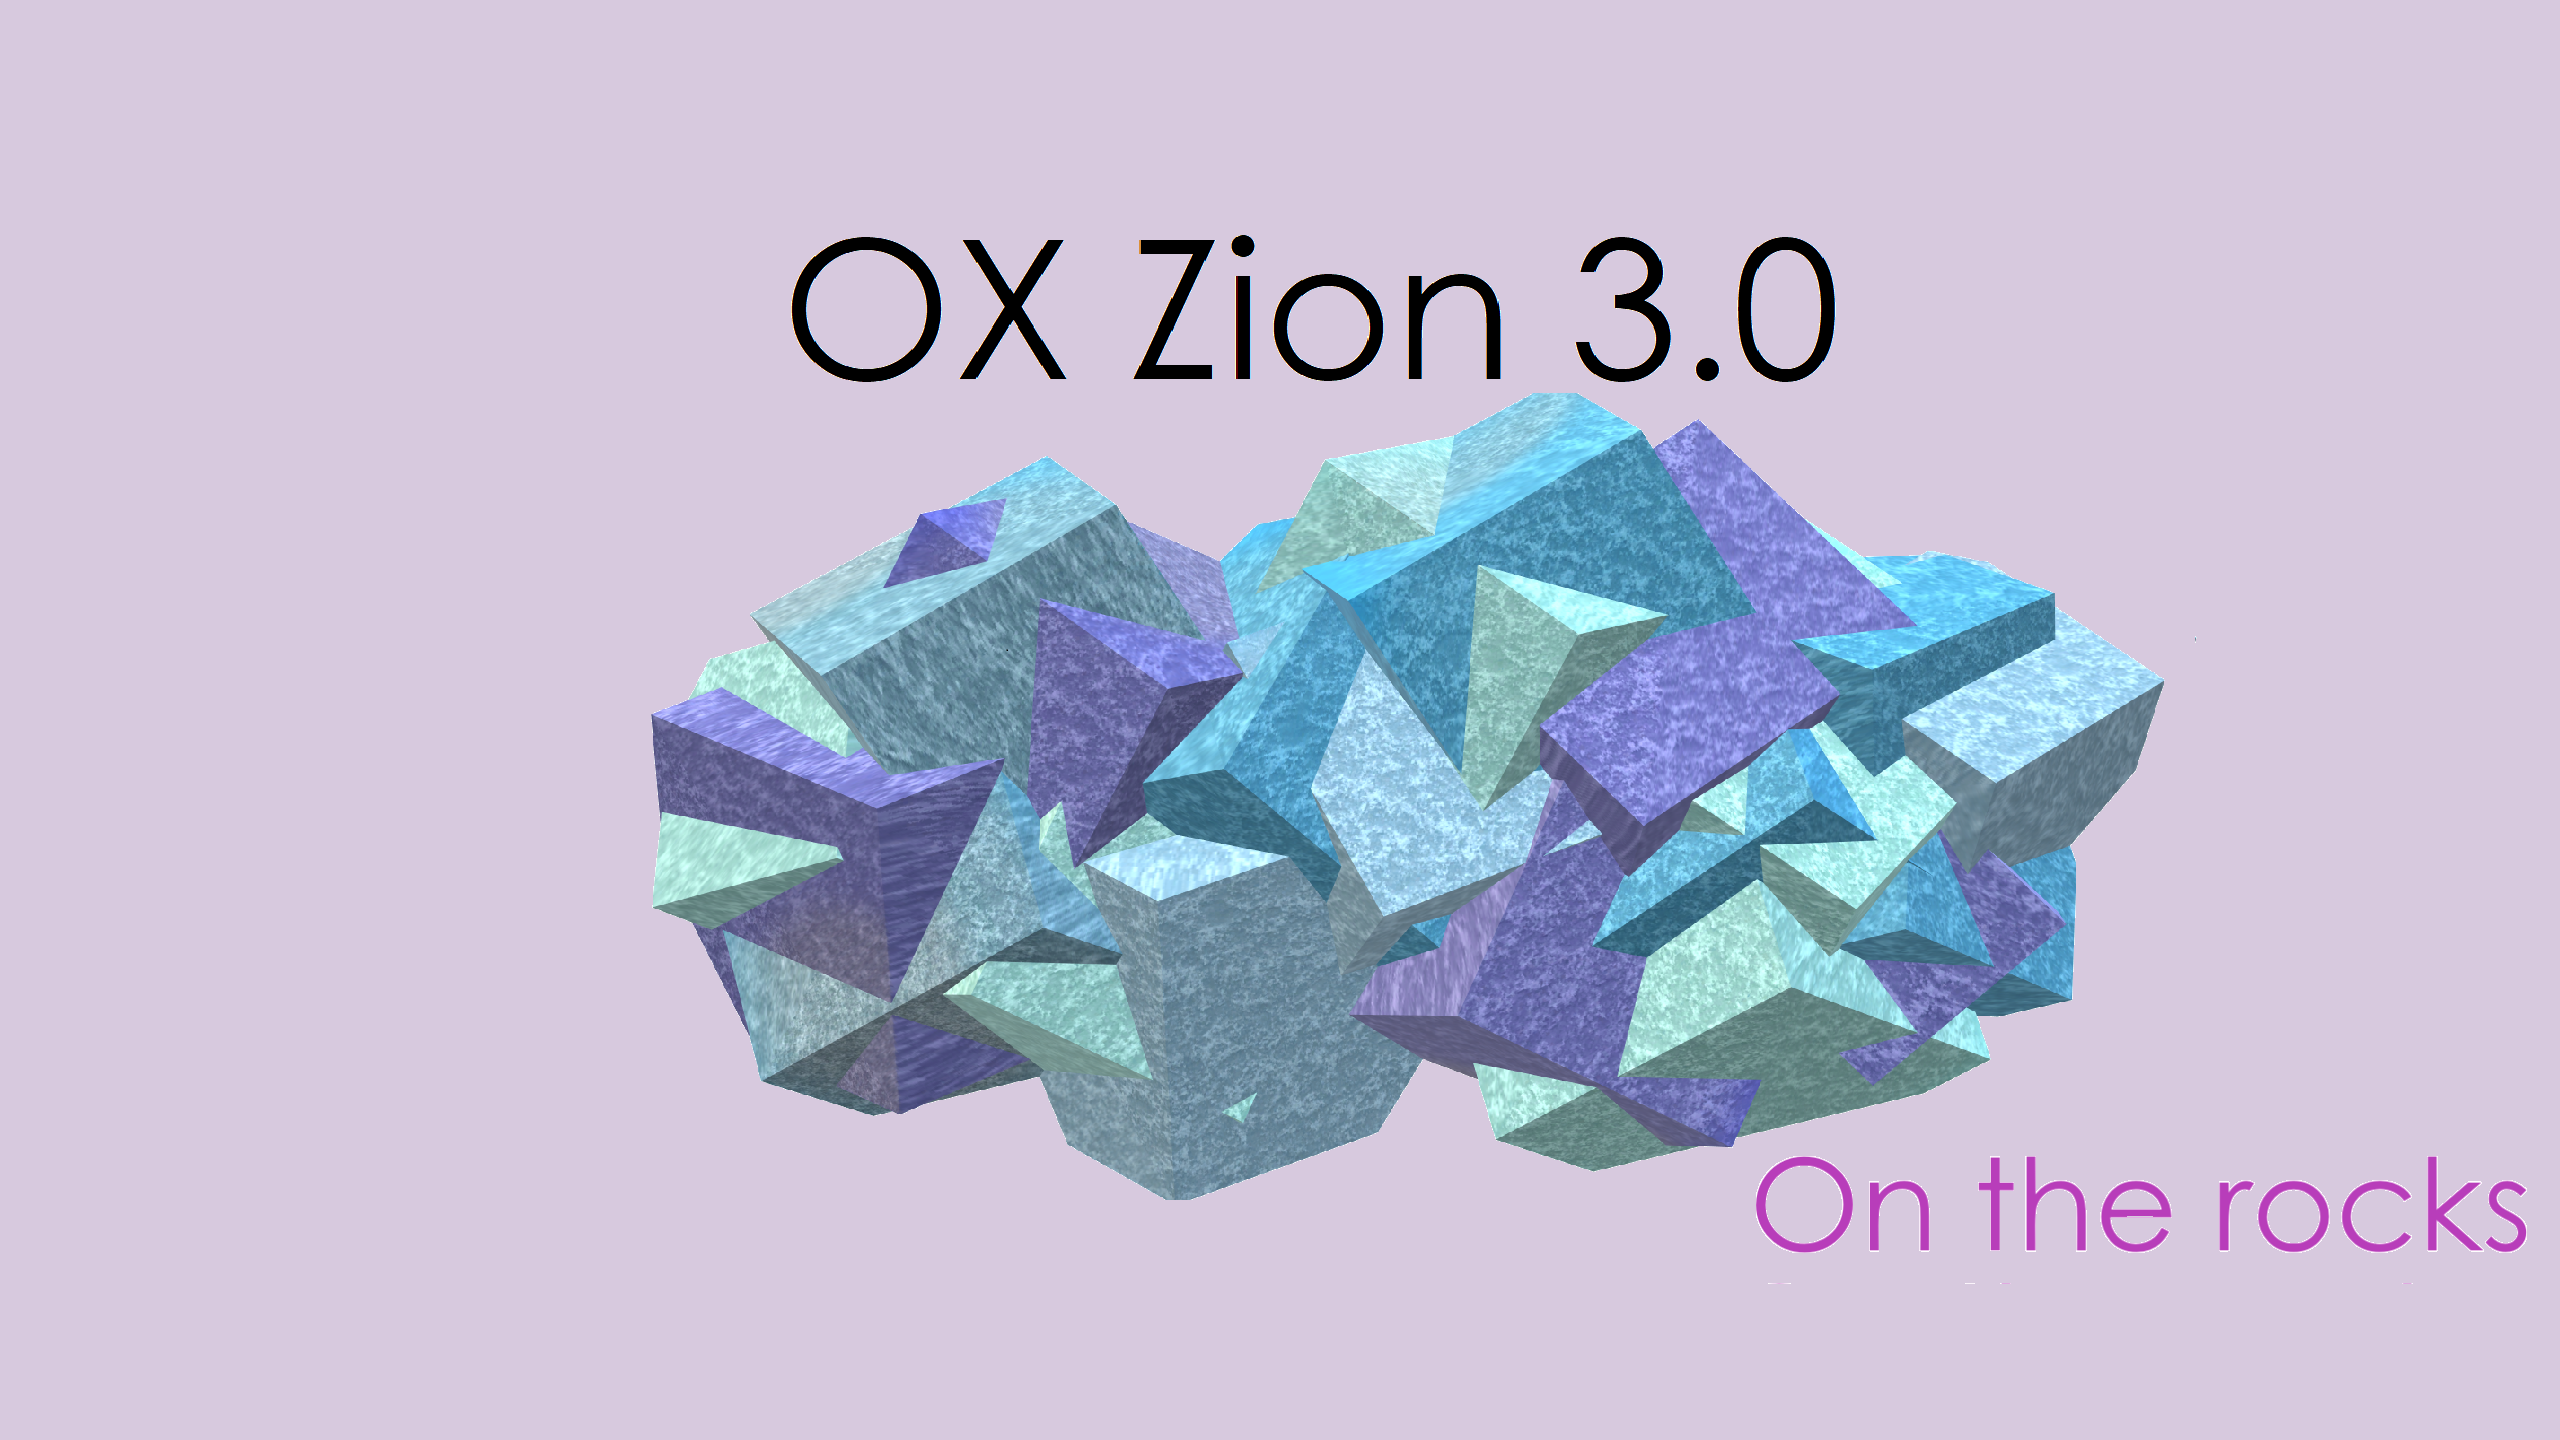
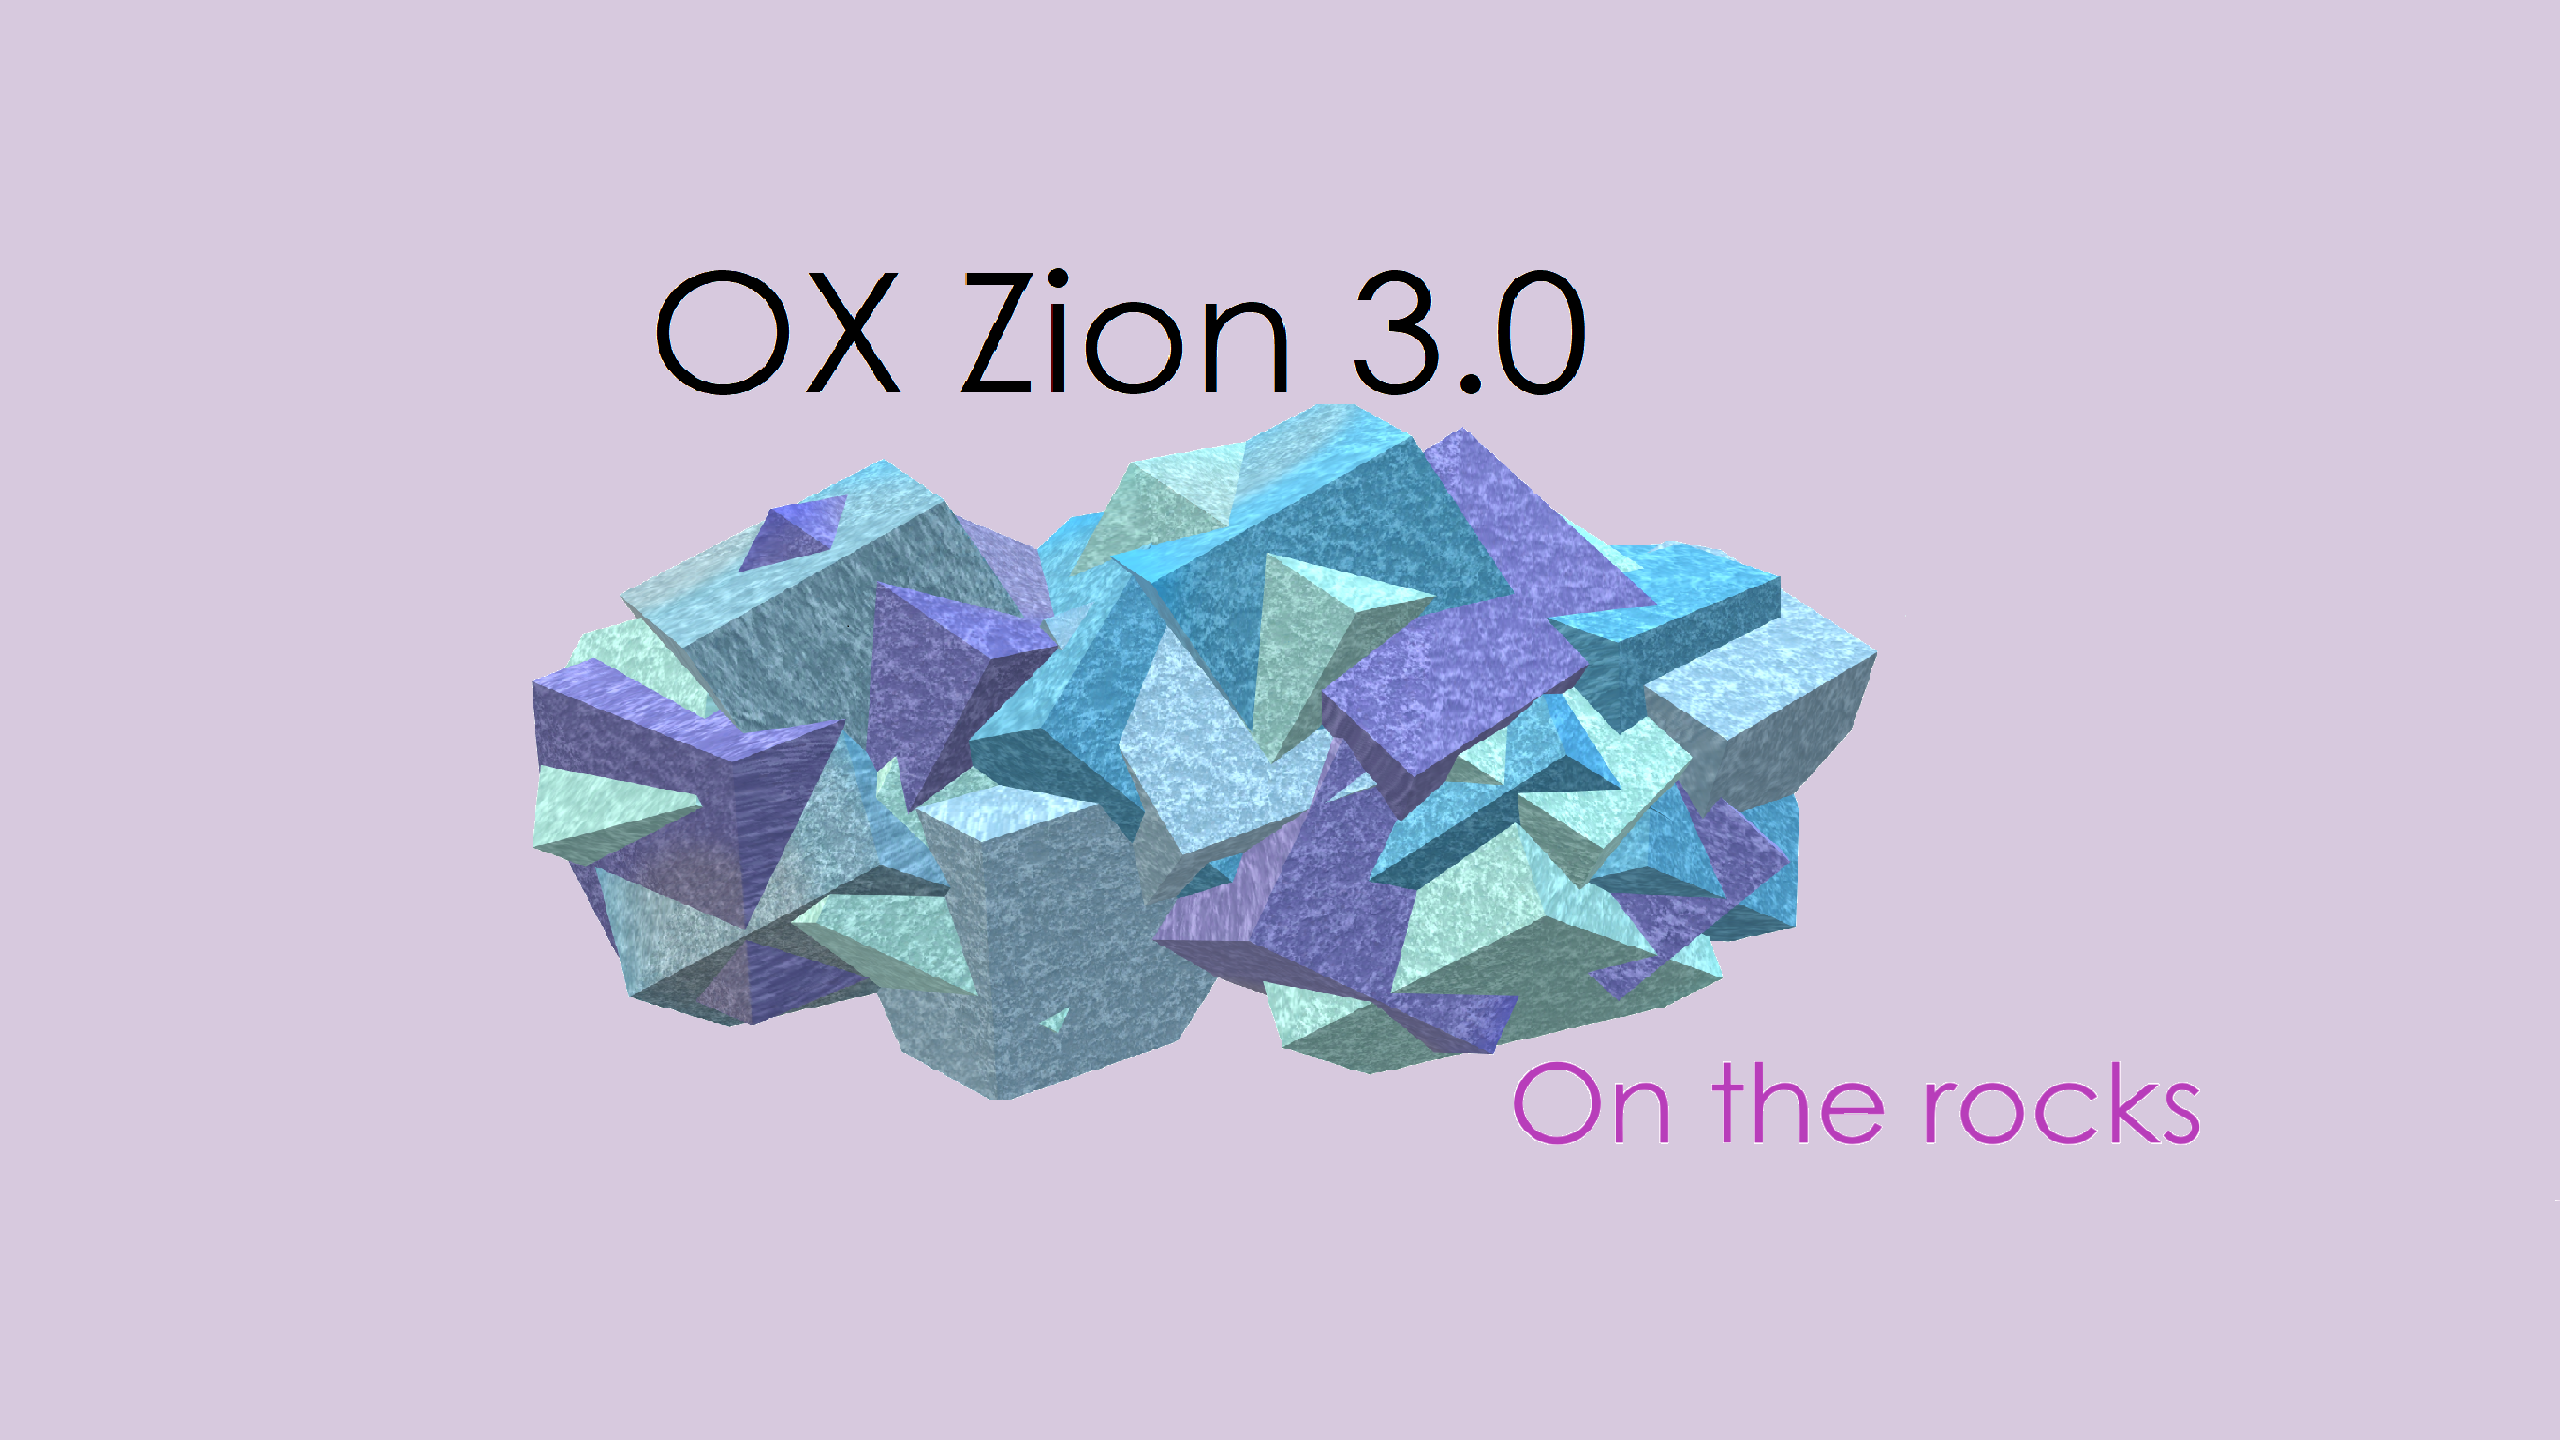
Made changes to the file locale/en_EN.js to say OX Zion instead of OS.js. Changed the background image to fit laptops. Now it looks really bad :(. Need Help with some changes I'd like to do in config.js.

Changed region(s): [[0.1875, 0.1562, 1.0, 0.875]]

diff --git a/view/src/osjs-client/src/locale/en_EN.js b/view/src/osjs-client/src/locale/en_EN.js
@@ -1,5 +1,5 @@
 /*
- * OS.js - JavaScript Cloud/Web Desktop Platform
+ * OX Zion - JavaScript Cloud/Web Desktop Platform
  *
  * Copyright (c) 2011-2019, Anders Evenrud <andersevenrud@gmail.com>
  * All rights reserved.
@@ -45,11 +45,11 @@ export const en_EN = {
   ERR_WINDOW_ID_EXISTS: 'Window with ID \'{0}\' already exists',
   ERR_INVALID_LOCALE: 'Invalid locale \'{0}\'',
   LBL_CONNECTION_LOST: 'Connection Lost',
-  LBL_CONNECTION_LOST_MESSAGE: 'The connection to the OS.js was lost. Reconnecting....',
+  LBL_CONNECTION_LOST_MESSAGE: 'The connection to the OX Zion was lost. Reconnecting...',
   LBL_CONNECTION_RESTORED: 'Connection Restored',
-  LBL_CONNECTION_RESTORED_MESSAGE: 'The connection to the OS.js server was restored.',
+  LBL_CONNECTION_RESTORED_MESSAGE: 'The connection to the OX Zion server was restored.',
   LBL_CONNECTION_FAILED: 'Connection Failed',
-  LBL_CONNECTION_FAILED_MESSAGE: 'The connection to the OS.js could not be established. Some features might not work properly.',
+  LBL_CONNECTION_FAILED_MESSAGE: 'The connection to the OX Zion could not be established. Some features might not work properly.',
 
   // Application categories
   LBL_APP_CAT_DEVELOPMENT: 'Development',
@@ -144,5 +144,10 @@ export const en_EN = {
   LBL_BACK: 'Back',
   LBL_FORWARD: 'Forward',
   LBL_UPLOAD: 'Upload',
-  LBL_IMAGE: 'Image'
+  LBL_IMAGE: 'Image',
+
+  // File path
+  FILE_PATH_DESKTOP_BACKGROUND : './assets/images/OX_Background_Ontherocks.png',
+  FILE_PATH_DESKTOP_BACKGROUND : './assets/images/OX_Background_Ontherocks.png',
+  FILE_PATH_TITLE: './assets/images/OXZion.png'
 };

diff --git a/view/src/client/config.js b/view/src/client/config.js
@@ -37,7 +37,7 @@ module.exports = {
   auth: {
     url: "http://localhost/auth",
     ui: {
-      title: 'Welcome to OX ZION',
+      title: 'Welcome to OX Zion',
       logo: {
         position: 'top',
         src: require('./assets/images/OXZion.png')
